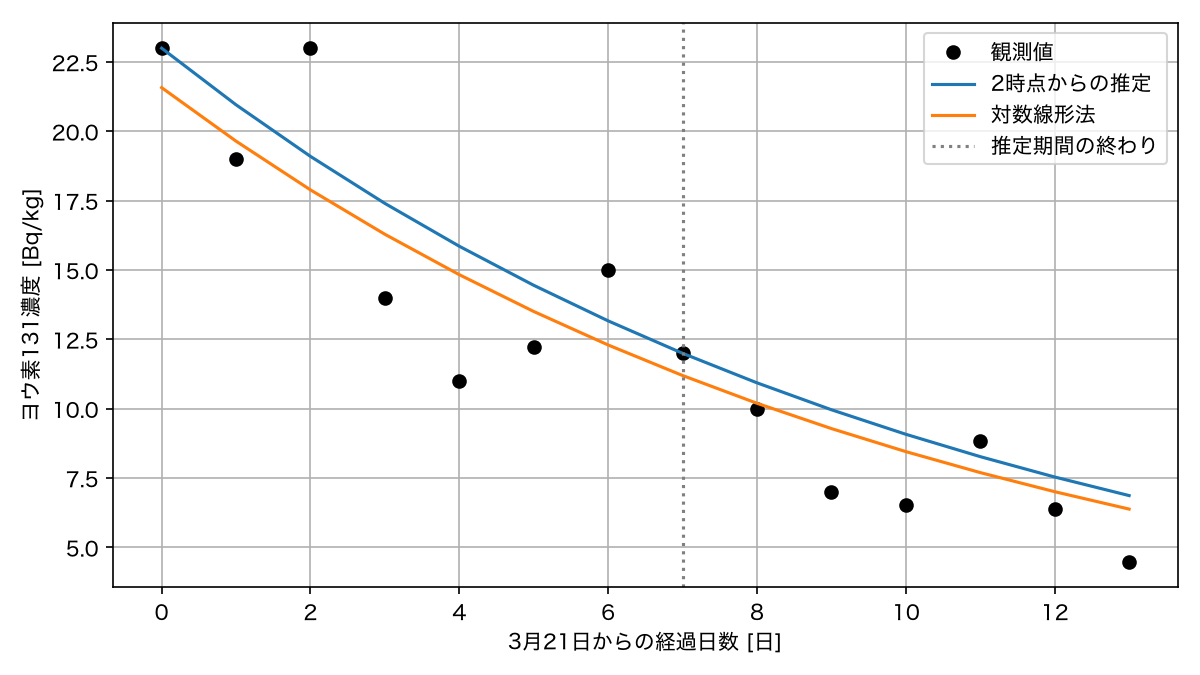
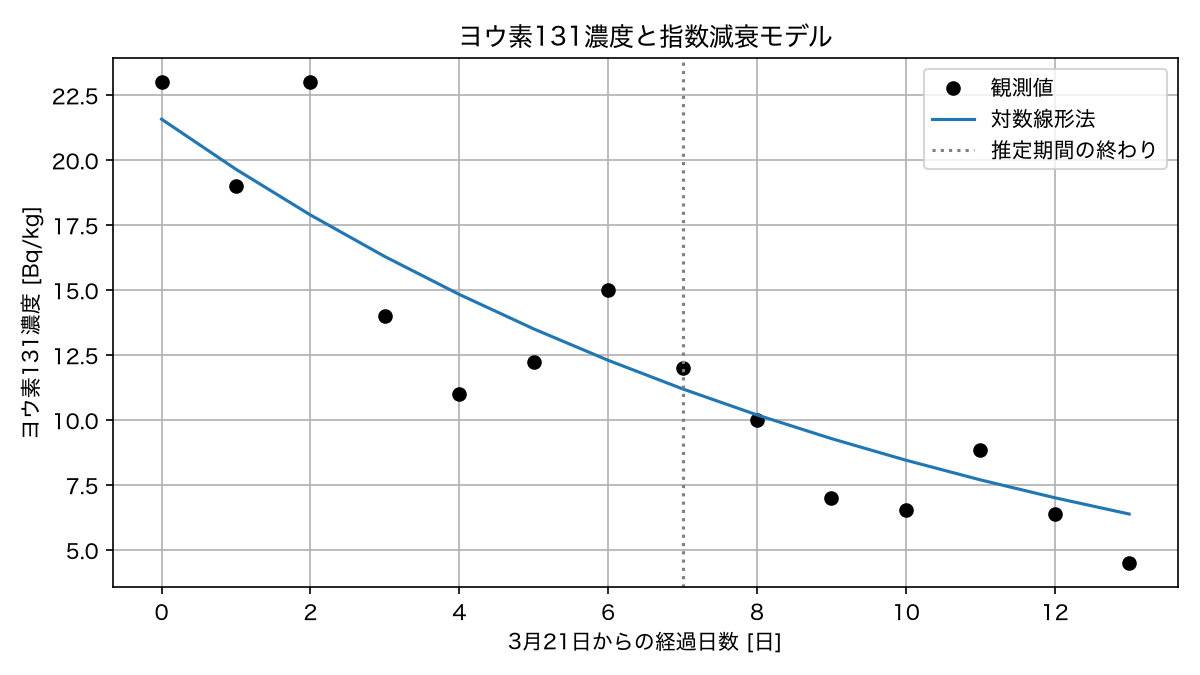
update homework2

diff --git a/contents/3_population_exponential.md b/contents/3_population_exponential.md
@@ -166,13 +166,11 @@ applied_programming_ii/
 
 データとモデルは講義ノートの課題2の準備節を用いる．
 
-### 1．パラメタ推定（設問3の結果も記入）
+### 1．パラメタ推定
 
 | 推定方法 | 推定に使う期間（2011年） | C0 [Bq/kg，3月21日に対応] | λ [1/日] | 見かけの半減期 [日] |
 | --- | --- | --- | --- | --- |
-| 2時点からの推定 | 3月21日・28日 | | | |
 | 対数線形法 | 3月21〜28日 | | | |
-| 対数線形法 | 3月21〜31日 | | | |
 
 ### 2．観測値との比較
 
@@ -180,21 +178,17 @@ applied_programming_ii/
 
 | 推定方法（3月21〜28日） | 評価期間（2011年） | MSE [(Bq/kg)^2] | RMSE [Bq/kg] |
 | --- | --- | --- | --- |
-| 2時点からの推定 | 3月21〜28日 | | |
-| 2時点からの推定 | 3月29日〜4月3日 | | |
 | 対数線形法 | 3月21〜28日 | | |
 | 対数線形法 | 3月29日〜4月3日 | | |
 
-- 推定方法・評価期間による誤差の違いと，残差の時間変化：
+- 評価期間による誤差の違いと，残差の時間変化：
 
-### 3．推定期間の変更と外挿
+### 3．外挿
 
 | 対数線形法の推定期間（2011年） | 4月10日のモデル値 [Bq/kg] |
 | --- | --- |
 | 3月21〜28日 | |
-| 3月21〜31日 | |
 
-- 推定期間によるパラメタと外挿値の違い：
 - このCSVでは4月10日の予測誤差を求められない理由：
 
 ### 4．半減期の解釈とモデルの限界
@@ -1033,30 +1027,19 @@ $$
 ```
 
 
-````{warning} 課題2：ヨウ素131濃度のパラメタ推定とモデルの評価
+````{dropdown} コード作成例：人口モデルから必要な処理を抜粋する
 
-上の準備コードとモデルを用いて，以下に取り組め．コードと図はNotebookに，表と考察は`README.md`の課題2の解答欄に記入せよ．
+上のデータ読み込みと，本文の関数定義を実行してから，以下を順に実行する．人口モデルの推定・描画・誤差評価・外挿のコードから必要な処理だけを抜粋し，濃度データに対応する変数名と単位に置き換えている．新しい関数は定義しない．
 
-1. **パラメタ推定**：3月21日と28日の観測値を通る指数関数から $\lambda$ を求めよ．次に，3月21〜28日の全観測値から対数線形法で $\lambda$ と $C_0$ を求めよ．それぞれの見かけの半減期を計算し，表に記入せよ．
-2. **モデルの評価**：両推定方法について4月3日までのモデル値を求め，観測値との比較図と残差図を作成せよ．残差は観測値−モデル値とし，推定対象期間の終わりを縦線で示せ．3月21〜28日と3月29日〜4月3日を分けてMSE・RMSEを求め，推定方法・評価期間による違いと残差の時間変化を説明せよ．作成した図は`reports/figures/`へ保存せよ．
-3. **推定期間の変更と外挿**：対数線形法で用いる観測期間を3月31日まで延長し，$\lambda$・$C_0$・見かけの半減期を再推定せよ．3月28日までで推定したモデルと，3月31日までで推定したモデルから，それぞれ4月10日の濃度を計算せよ．推定期間によるパラメタと外挿値の違いを説明し，このCSVでは4月10日の予測誤差を求められない理由を述べよ．
-4. **モデルの解釈**：設問1・3の見かけの半減期を，ヨウ素131の物理的半減期である約8日と比較せよ．毎日別の水を採取していることを踏まえ，放射性崩壊以外に濃度を変化させうる要因を挙げ，このデータだけでは要因を特定できない理由を200字程度で説明せよ．
-````
+- データの対応：`t_obs`を`t_decay`，`y_obs`を`c_obs`に置き換える．横軸には暦年ではなく経過日数を使う．
+- 係数の対応：人口モデルの傾き$r$は，減衰モデルでは$-\lambda$に対応する．`decay_rate = -slope_decay`とし，解析解には`-decay_rate`を渡す．
+- 半減期：上で示した式$\log 2/\lambda$の計算だけを追加する．Pythonの`lambda`は予約語なので，変数名には`decay_rate`を使う．
 
-````{dropdown} 課題2の解答例
-
-直前の準備コードを実行済みとする．以下のコードを設問番号の順に実行する．
-
-**1．パラメタ推定**
-
-2時点からの推定では$C_0=23$，$C(7)=12$とし，$\lambda=-\log(12/23)/7$を求める．対数線形法では，Bq/kg単位の濃度の数値を用いた対数上の傾きが$-\lambda$，切片が$\log C_0$となる．
+**推定：本文の対数線形最小二乗法を再利用**
 
 ```python
-fit_decay = t_decay <= 7
-C0_two_point = c_obs[0]
-c_day7 = c_obs[t_decay == 7][0]
-decay_rate_two_point = -np.log(c_day7 / C0_two_point) / 7
-half_life_two_point = np.log(2) / decay_rate_two_point
+fit_end_day = 7  # 推定期間の終わり（3月21日からの経過日数）
+fit_decay = t_decay <= fit_end_day
 
 slope_decay, intercept_decay = np.polyfit(
     t_decay[fit_decay], np.log(c_obs[fit_decay]), 1
@@ -1065,7 +1048,98 @@ decay_rate = -slope_decay
 C0_loglinear = np.exp(intercept_decay)
 half_life = np.log(2) / decay_rate
 
-print("2時点からの推定（C0，λ，半減期）:", C0_two_point, decay_rate_two_point, half_life_two_point)
+print("対数線形法（C0，λ，半減期）:", C0_loglinear, decay_rate, half_life)
+```
+
+**比較図・残差図：本文の描画コードを再利用**
+
+人口用の縦軸範囲`ax.set_ylim(0, 20000)`は使わず，濃度に応じた自動設定にする．
+
+```python
+C_model = exponential_solution(t_decay, C0_loglinear, -decay_rate)
+residual_decay = c_obs - C_model
+
+fig, ax = plt.subplots(figsize=(8, 4.5))
+ax.plot(t_decay, c_obs, color="black", marker="o", linestyle="none", label="観測値")
+ax.plot(t_decay, C_model, label="対数線形法")
+ax.set_title("ヨウ素131濃度と指数減衰モデル")
+ax.axvline(fit_end_day, color="gray", linestyle=":", label="推定期間の終わり")
+ax.set_xlabel("3月21日からの経過日数 [日]")
+ax.set_ylabel("ヨウ素131濃度 [Bq/kg]")
+ax.grid(True)
+ax.legend()
+fig.tight_layout()
+fig.savefig(FIGURE_DIR / "assignment2_decay_fit.png", dpi=150)
+plt.show()
+
+fig, ax = plt.subplots(figsize=(8, 3.5))
+ax.plot(t_decay, residual_decay, marker="o", label="対数線形法")
+ax.set_title("濃度モデルの残差（観測値−モデル値）")
+ax.axhline(0, color="black", linewidth=0.8)
+ax.axvline(fit_end_day, color="gray", linestyle=":")
+ax.set_xlabel("3月21日からの経過日数 [日]")
+ax.set_ylabel("残差 [Bq/kg]")
+ax.grid(True)
+ax.legend()
+fig.tight_layout()
+fig.savefig(FIGURE_DIR / "assignment2_decay_residual.png", dpi=150)
+plt.show()
+```
+
+![ヨウ素131濃度の観測値と対数線形法によるモデル値](figs/03/assignment2_decay_fit.png)
+
+![対数線形法による濃度の残差](figs/03/assignment2_decay_residual.png)
+
+**誤差評価：本文のMSE・RMSEの計算を再利用**
+
+```python
+mse_log_fit = mean_squared_error(c_obs[fit_decay], C_model[fit_decay])
+mse_log_after = mean_squared_error(c_obs[~fit_decay], C_model[~fit_decay])
+print("推定期間内（MSE，RMSE）:", mse_log_fit, np.sqrt(mse_log_fit))
+print("推定期間後（MSE，RMSE）:", mse_log_after, np.sqrt(mse_log_after))
+```
+
+**外挿：本文と同じ解析解で指定した時刻の値を求める**
+
+```python
+prediction_day = 20  # 3月21日からの経過日数
+prediction = exponential_solution(prediction_day, C0_loglinear, -decay_rate)
+print(f"{prediction_day}日後のモデル値: {prediction:.4f} Bq/kg")
+```
+
+- 推定期間：全設問で3月21〜28日の推定値を使う．3月28日は経過日数7なので，`fit_end_day = 7`のままとする．
+- 外挿先：4月10日は経過日数20である．人口用の`year - 1920`は使わない．この日の観測値はないため，モデル値だけを求める．
+- 外挿に使うパラメタ：設問1で求めた`C0_loglinear`と`decay_rate`をそのまま使う．再推定は不要である．
+````
+
+````{warning} 課題2：ヨウ素131濃度のパラメタ推定とモデルの評価
+
+上の準備コードとモデルを用いて，以下に取り組め．コードと図はNotebookに，表と考察は`README.md`の課題2の解答欄に記入せよ．
+
+1. **パラメタ推定**：3月21〜28日の全観測値から対数線形最小二乗法で $\lambda$ と $C_0$ を求めよ．見かけの半減期を計算し，表に記入せよ．
+2. **モデルの評価**：設問1で推定したモデルについて4月3日までのモデル値を求め，観測値との比較図と残差図を作成せよ．残差は観測値−モデル値とし，推定対象期間の終わりを縦線で示せ．3月21〜28日と3月29日〜4月3日を分けてMSE・RMSEを求め，評価期間による違いと残差の時間変化を説明せよ．作成した図は`reports/figures/`へ保存せよ．
+3. **外挿**：設問1で推定したモデルを用いて4月10日の濃度を計算し，表に記入せよ．このCSVでは4月10日の予測誤差を求められない理由を述べよ．
+4. **モデルの解釈**：設問1で求めた見かけの半減期を，ヨウ素131の物理的半減期である約8日と比較せよ．毎日別の水を採取していることを踏まえ，放射性崩壊以外に濃度を変化させうる要因を挙げ，このデータだけでは要因を特定できない理由を200字程度で説明せよ．
+````
+
+````{dropdown} 課題2の解答例
+
+直前の準備コードを実行済みとする．以下のコードを設問番号の順に実行する．
+
+**1．パラメタ推定**
+
+対数線形法では，Bq/kg単位の濃度の数値を用いた対数上の傾きが$-\lambda$，切片が$\log C_0$となる．
+
+```python
+fit_decay = t_decay <= 7
+
+slope_decay, intercept_decay = np.polyfit(
+    t_decay[fit_decay], np.log(c_obs[fit_decay]), 1
+)
+decay_rate = -slope_decay
+C0_loglinear = np.exp(intercept_decay)
+half_life = np.log(2) / decay_rate
+
 print("対数線形法（C0，λ，半減期）:", C0_loglinear, decay_rate, half_life)
 ```
 
@@ -1073,21 +1147,18 @@ print("対数線形法（C0，λ，半減期）:", C0_loglinear, decay_rate, hal
 
 | 推定方法 | 推定対象（2011年） | C0 [Bq/kg] | λ [1/日] | 見かけの半減期 [日] |
 | --- | --- | --- | --- | --- |
-| 2時点からの推定 | 3月21日・28日 | 23.0000 | 0.0929411 | 7.4579 |
 | 対数線形法 | 3月21〜28日 | 21.5776 | 0.0936854 | 7.3987 |
 
 **2．モデルの評価**
 
 ```python
-C_two_point = exponential_solution(t_decay, C0_two_point, -decay_rate_two_point)
 C_model = exponential_solution(t_decay, C0_loglinear, -decay_rate)
-residual_two_point_decay = c_obs - C_two_point
 residual_decay = c_obs - C_model
 
 fig, ax = plt.subplots(figsize=(8, 4.5))
 ax.plot(t_decay, c_obs, color="black", marker="o", linestyle="none", label="観測値")
-ax.plot(t_decay, C_two_point, label="2時点からの推定")
 ax.plot(t_decay, C_model, label="対数線形法")
+ax.set_title("ヨウ素131濃度と指数減衰モデル")
 ax.axvline(7, color="gray", linestyle=":", label="推定期間の終わり")
 ax.set_xlabel("3月21日からの経過日数 [日]")
 ax.set_ylabel("ヨウ素131濃度 [Bq/kg]")
@@ -1098,8 +1169,8 @@ fig.savefig(FIGURE_DIR / "assignment2_decay_fit.png", dpi=150)
 plt.show()
 
 fig, ax = plt.subplots(figsize=(8, 3.5))
-ax.plot(t_decay, residual_two_point_decay, marker="o", label="2時点からの推定")
 ax.plot(t_decay, residual_decay, marker="o", label="対数線形法")
+ax.set_title("濃度モデルの残差（観測値−モデル値）")
 ax.axhline(0, color="black", linewidth=0.8)
 ax.axvline(7, color="gray", linestyle=":")
 ax.set_xlabel("3月21日からの経過日数 [日]")
@@ -1110,106 +1181,48 @@ fig.tight_layout()
 fig.savefig(FIGURE_DIR / "assignment2_decay_residual.png", dpi=150)
 plt.show()
 
-mse_two_fit = mean_squared_error(c_obs[fit_decay], C_two_point[fit_decay])
-mse_two_after = mean_squared_error(c_obs[~fit_decay], C_two_point[~fit_decay])
 mse_log_fit = mean_squared_error(c_obs[fit_decay], C_model[fit_decay])
 mse_log_after = mean_squared_error(c_obs[~fit_decay], C_model[~fit_decay])
-print("2時点からの推定・3月21〜28日（MSE，RMSE）:", mse_two_fit, np.sqrt(mse_two_fit))
-print("2時点からの推定・3月29日以降（MSE，RMSE）:", mse_two_after, np.sqrt(mse_two_after))
 print("対数線形法・3月21〜28日（MSE，RMSE）:", mse_log_fit, np.sqrt(mse_log_fit))
 print("対数線形法・3月29日以降（MSE，RMSE）:", mse_log_after, np.sqrt(mse_log_after))
 ```
 
 - コードの意図：人口用の解析解を減衰モデルに再利用するため，増加率の引数に負の値`-decay_rate`を渡す．`fit_decay`とその否定`~fit_decay`で期間を分け，推定への適合と推定後の予測誤差を別々に評価する．
 
-![課題2・設問2：ヨウ素131濃度の観測値と両推定方法のモデル値](figs/03/assignment2_decay_fit.png)
+![課題2・設問2：ヨウ素131濃度の観測値と対数線形法によるモデル値](figs/03/assignment2_decay_fit.png)
 
-![課題2・設問2：両推定方法の濃度の残差（観測値−モデル値）](figs/03/assignment2_decay_residual.png)
+![課題2・設問2：対数線形法による濃度の残差（観測値−モデル値）](figs/03/assignment2_decay_residual.png)
 
 | 推定方法（3月21〜28日） | 評価期間（2011年） | MSE [(Bq/kg)^2] | RMSE [Bq/kg] |
 | --- | --- | --- | --- |
-| 2時点からの推定 | 3月21〜28日 | 7.8117 | 2.7949 |
-| 2時点からの推定 | 3月29日〜4月3日 | 3.9120 | 1.9779 |
 | 対数線形法 | 3月21〜28日 | 7.2543 | 2.6934 |
 | 対数線形法 | 3月29日〜4月3日 | 2.3749 | 1.5411 |
 
-- 推定方法の比較：このデータでは対数線形法のMSE・RMSEが両期間で小さい．ただし，対数線形法が最小化するのは対数残差の二乗和であり，元の濃度でのMSEが必ず小さくなるわけではない．
-- 評価期間の比較：両方法とも後半のRMSEが小さい．後半は濃度自体も低く，異なる観測値の集合を比較しているため，外挿の精度が一般に高いとは結論できない．
-- 残差の時間変化：3月23日・27日には両方法で正，3月24〜26日には負となる．3月29日以降は4月1日を除いて負であり，この期間では過大評価が多い．
+- 誤差指標：対数線形法が最小化するのは対数残差の二乗和であり，ここで評価する濃度のMSEとは異なる．
+- 評価期間の比較：このモデルでは後半のRMSEが小さい．後半は濃度自体も低く，異なる観測値の集合を比較しているため，外挿の精度が一般に高いとは結論できない．
+- 残差の時間変化：3月23日・27日には正，3月24〜26日には負となる．3月29日以降は4月1日を除いて負であり，この期間では過大評価が多い．
 
-**3．推定期間の変更と外挿**
+**3．外挿**
 
 ```python
-fit_decay_extended = t_decay <= 10  # 3月31日まで
-slope_extended, intercept_extended = np.polyfit(
-    t_decay[fit_decay_extended], np.log(c_obs[fit_decay_extended]), 1
-)
-decay_rate_extended = -slope_extended
-C0_extended = np.exp(intercept_extended)
-half_life_extended = np.log(2) / decay_rate_extended
-print("3月31日まで（C0，λ，半減期）:", C0_extended, decay_rate_extended, half_life_extended)
-
-prediction_day20 = exponential_solution(20, C0_loglinear, -decay_rate)
-prediction_day20_extended = exponential_solution(20, C0_extended, -decay_rate_extended)
-print("3月28日までで推定した4月10日の濃度:", prediction_day20, "Bq/kg")
-print("3月31日までで推定した4月10日の濃度:", prediction_day20_extended, "Bq/kg")
+prediction_day = 20  # 4月10日は3月21日から20日後
+prediction = exponential_solution(prediction_day, C0_loglinear, -decay_rate)
+print(f"4月10日のモデル値: {prediction:.4f} Bq/kg")
 ```
 
-- コードの意図：推定期間の変更による影響だけを比較するため，時刻の原点は3月21日のまま，3月31日までのデータで再推定する．4月10日はその20日後なので，両モデルに同じ時刻`20`を渡す．
+- コードの意図：設問1の推定値をそのまま使い，解析解に経過日数20を渡す．観測期間外でもモデル値は計算できるが，予測誤差の計算にはその日の観測値が必要である．
 
-| 対数線形法の推定期間（2011年） | C0 [Bq/kg] | λ [1/日] | 見かけの半減期 [日] | 4月10日のモデル値 [Bq/kg] |
-| --- | --- | --- | --- | --- |
-| 3月21〜28日 | 21.5776 | 0.0936854 | 7.3987 | 3.3133 |
-| 3月21〜31日 | 22.9487 | 0.1161707 | 5.9666 | 2.2476 |
+| 対数線形法の推定期間（2011年） | 4月10日のモデル値 [Bq/kg] |
+| --- | --- |
+| 3月21〜28日 | 3.3133 |
 
-- 推定期間による違い：3月29〜31日の観測値は元のモデルより小さい．これらを加えると減衰係数が大きくなり，見かけの半減期と4月10日のモデル値は小さくなる．時刻の原点は同じであり，$C_0$はどちらも3月21日に対応する推定値である．
-- 予測誤差を求められない理由：このCSVには4月3日までの観測値しかない．4月10日のモデル値同士の差は求められるが，観測値との差は求められない．
+- 予測誤差を求められない理由：このCSVには4月3日までの観測値しかなく，4月10日のモデル値と比較する観測値がないためである．
 
 **4．モデルの解釈**
 
-- 半減期の比較：2時点からの推定で約7.46日，3月28日までの対数線形法で約7.40日，3月31日までの対数線形法で約5.97日となる．いずれも物理的半減期の約8日より短く，推定期間によっても変わる．
+- 半減期の比較：3月21〜28日のデータから推定した見かけの半減期は約7.40日であり，物理的半減期の約8日より短い．ただし，この違いだけでは濃度を変化させた要因を特定できない．
 - 考察の記述例：このデータは同じ試料を保存して測ったものではなく，毎日採取した別の水の濃度である．濃度は放射性崩壊に加え，水源への放射性物質の流入，降水などによる希釈，浄水処理での除去などにも影響されうる．したがって，推定した係数は複数の作用を含む見かけの減少率である．各要因の寄与を特定するには，水源の濃度・流量・処理条件などの追加資料が必要であり，この濃度系列だけから減少の原因や健康影響を判断することはできない．
 ````
-````{dropdown} コードの補足：人口モデルのコードを課題2に利用する
-
-新しいライブラリは必要ない．本文のコードをコピーし，データ・時刻・パラメタ・軸ラベルを次のように対応させる．人口の結果を残すため，課題2では別の変数名を使う．
-
-| 人口モデル | 濃度の減衰モデル |
-| --- | --- |
-| 人口の観測値`y_obs` | 濃度の観測値`c_obs` |
-| 1920年からの経過年`t_obs` | 3月21日からの経過日数`t_decay` |
-| 初期値 $N_0$ | 初期濃度 $C_0$ |
-| 増加率 $r$ | 減衰係数の符号を反転した $-\lambda$ |
-| 推定対象を選ぶ`fit_mask` | 推定対象を選ぶ`fit_decay` |
-
-```python
-# 課題前の準備コードで読み込んだ t_decay と c_obs を使う．
-# 3月21〜28日の8件を選ぶ．3月21日を0日とする．
-fit_decay = t_decay <= 7
-```
-
-- 対数をとる条件：元資料で不検出の有無を確認したうえで，`np.all(c_obs > 0)`により濃度がすべて正であることを確かめる．不検出を0として対数をとる処理は行わない．
-- 2時点からの推定：本文の式 $r=\log(N_1/N_0)/(t_1-t_0)$ に濃度を代入し，符号を反転して $\lambda$ とする．初期値には3月21日の観測値を使う．
-- 対数線形法：次のように傾きの符号を反転する．Pythonの`lambda`は構文に使う予約語なので，変数名には`decay_rate`を使う．
-
-```python
-slope_decay, intercept_decay = np.polyfit(
-    t_decay[fit_decay], np.log(c_obs[fit_decay]), 1
-)
-decay_rate = -slope_decay
-C0_loglinear = np.exp(intercept_decay)
-C_model = exponential_solution(t_decay, C0_loglinear, -decay_rate)
-half_life = np.log(2) / decay_rate
-```
-
-- 解析解の再利用：`exponential_solution`は係数が負の場合にも使える．2時点からの推定でも，その方法で求めた初期値と係数を引数に渡す．
-- 評価：`residual_decay = c_obs - C_model`とし，本文の描画コード・`mean_squared_error`・`np.sqrt`を再利用する．`fit_decay`と`~fit_decay`で評価期間を分ける．2時点からの推定で使うのは端点2件のみだが，設問2では対数線形法と同じ期間の全件で評価する．
-- 図の表示：横軸を`3月21日からの経過日数 [日]`，縦軸を`ヨウ素131濃度 [Bq/kg]`または`残差 [Bq/kg]`に変える．縦線も年ではなく経過日数で指定し，保存ファイル名は人口の図と区別する．
-- 対数目盛：`ax.set_yscale("log")`で縦軸を対数目盛にする．この場合は`c_obs`をそのまま描き，`np.log(c_obs)`には置き換えない．
-- 期間の変更：推定対象を選ぶ条件を変更し，傾き・切片・初期値・半減期を計算し直す．3月21日を時刻の原点とする設定は変えない．変更前の結果も表に記録する．
-- 外挿：4月10日は3月21日から20日後である．`exponential_solution(20, C0_loglinear, -decay_rate)`で計算できる．各推定期間について計算し，観測値がない日の誤差は算出しない．
-````
-
 ### 提出先・期限
 
 - 提出場所：WebClass「第3回課題」
